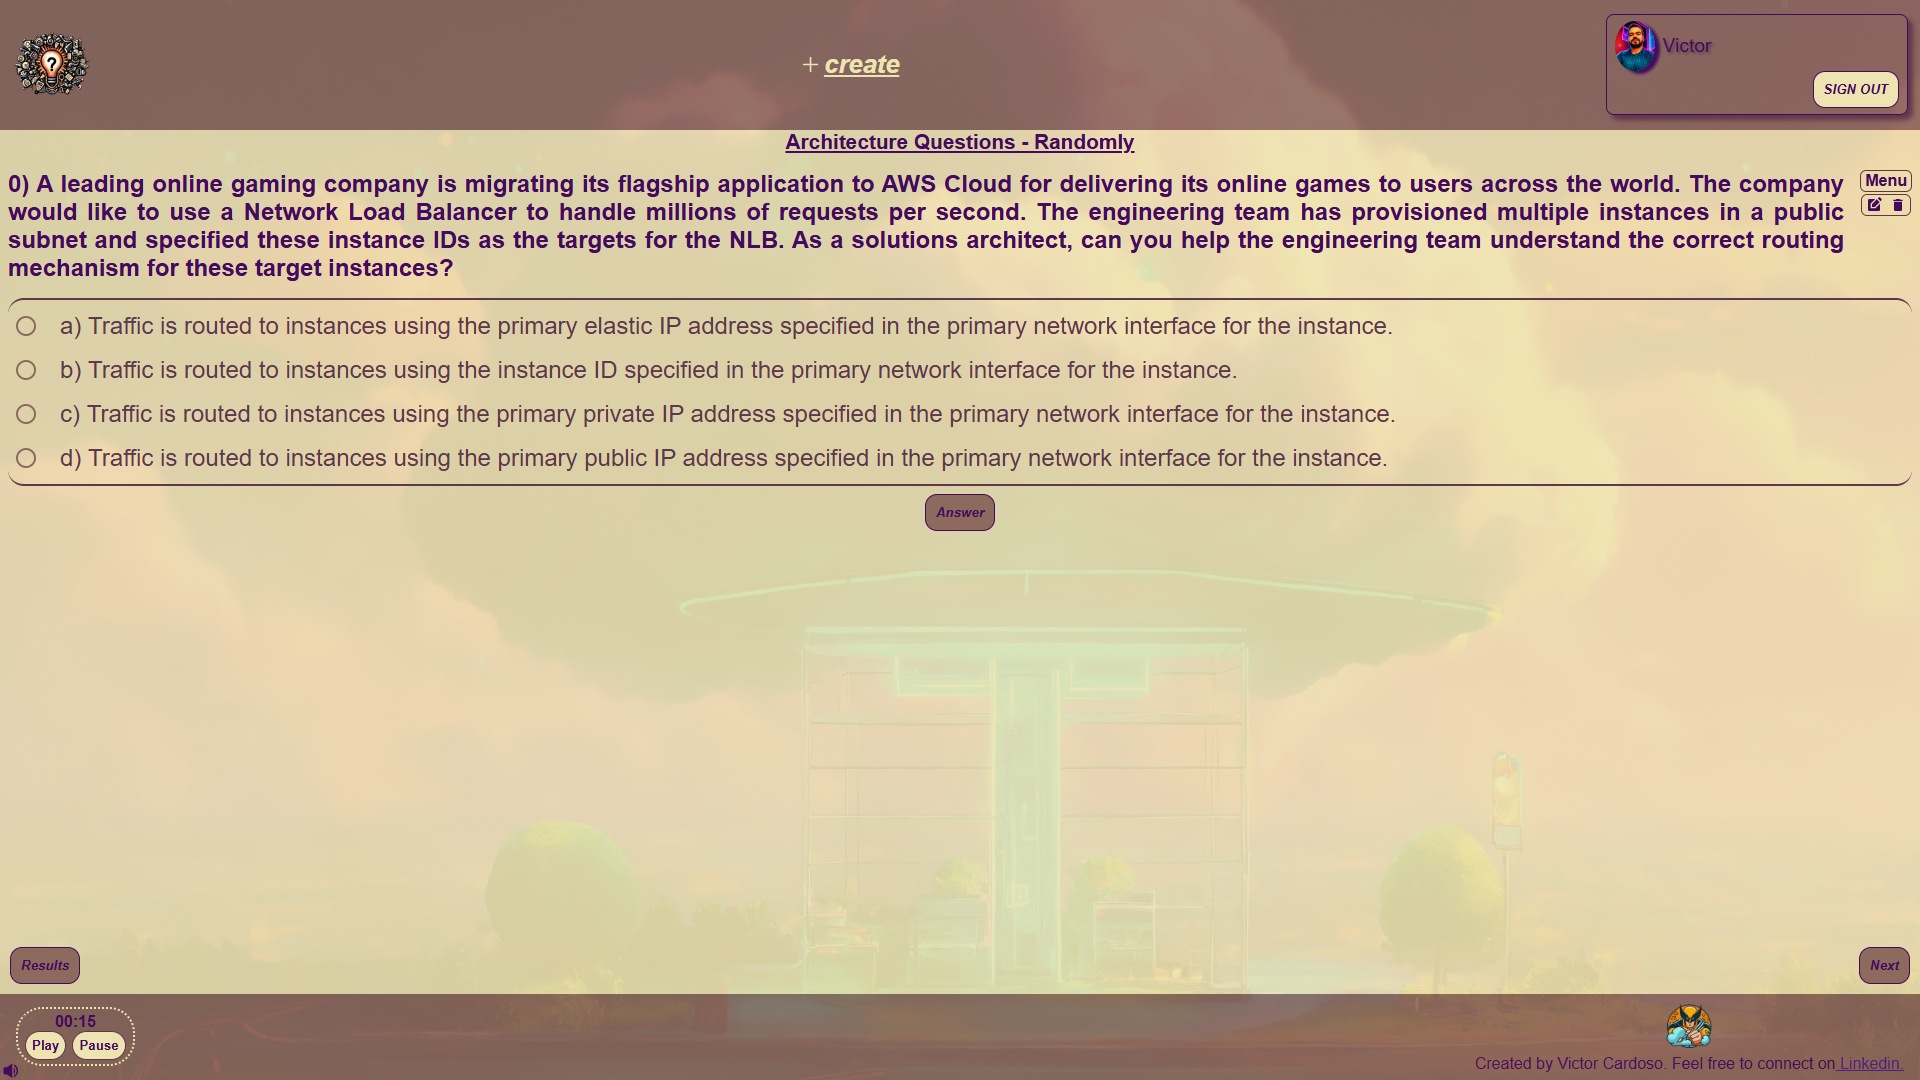
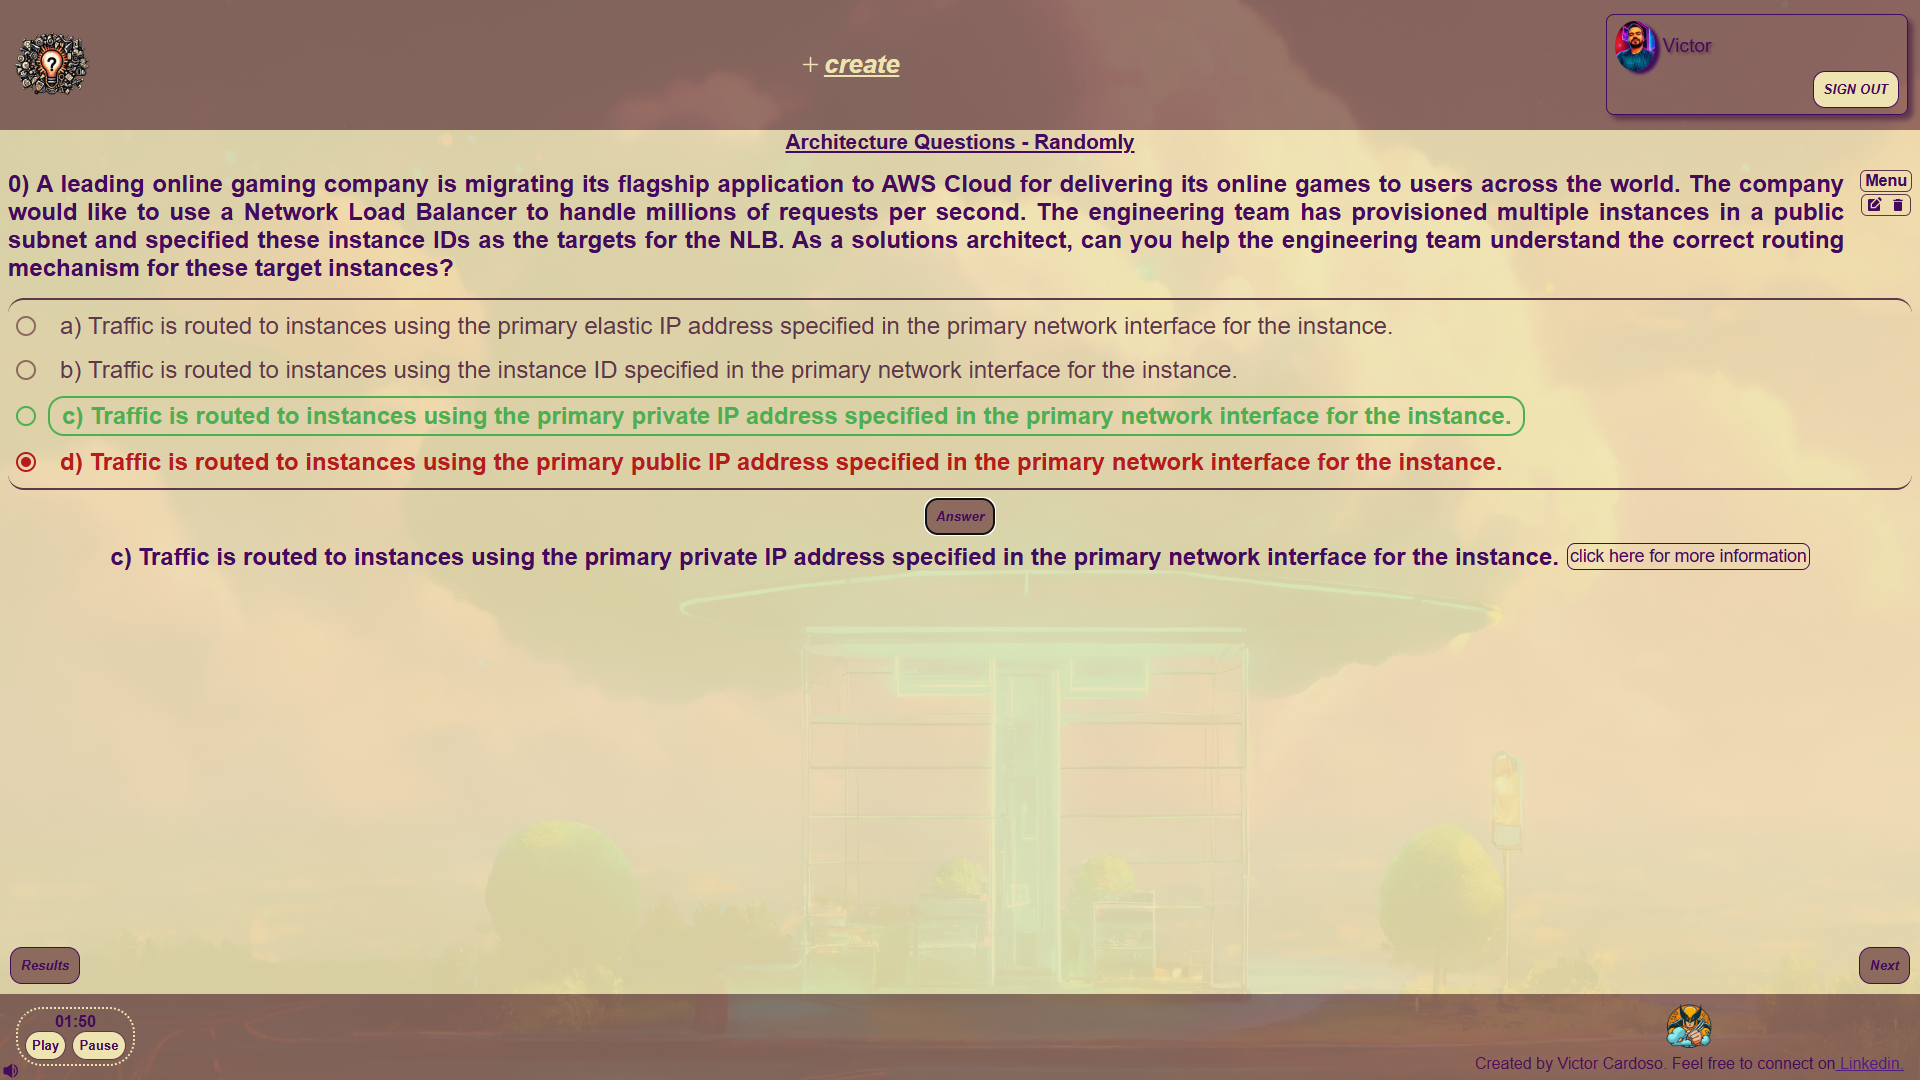
adjust ModalResults and Header components

Changed region(s): [[0.0, 0.3667, 1.0, 0.5194]]

diff --git a/src/Components/Modal/ModalResults/index.js b/src/Components/Modal/ModalResults/index.js
@@ -15,33 +15,25 @@ function ModalResults() {
     
     const [modalIsOpen, setModalIsOpen] = useState(false)
 
+    const [activeCorrect, setActiveCorrect] = useState(false)
+    const [activeIncorrect, setActiveIncorrect] = useState(false)
+
     // pegando os dados do resultado
     const { dataResults, mute } = useOutletContext()
 
     function openModal() {
         setModalIsOpen(true)
- 
-        // setTimeout para dar tempo de capturar as variáveis ao abrir a modal e, em seguida, mudar a cor de acordo com os resultados
-        setTimeout(() => {
-            const corrects = document.querySelector('#corrects')
-            const pontuations = document.querySelector('#pontuations')
-            const performances = document.querySelector('#performances')
-            const incorrects = document.querySelector('#incorrects')
 
-            corrects?.classList.add(`${styles.correct}`)
-            incorrects?.classList.add(`${styles.incorrect}`)
+        if (dataResults.numCorrectOption > dataResults.numIncorrectOption) {
+            setActiveCorrect(true)
+            setActiveIncorrect(false)
 
-            if (dataResults.numCorrectOption > dataResults.numIncorrectOption) {
-                pontuations?.classList.add(`${styles.correct}`)
-                performances?.classList.add(`${styles.correct}`)
+        } else if (dataResults.numCorrectOption < dataResults.numIncorrectOption) {
+            setActiveIncorrect(true)
+            setActiveCorrect(false)
 
-            } else if (dataResults.numCorrectOption < dataResults.numIncorrectOption) {
-                pontuations?.classList.add(`${styles.incorrect}`)
-                performances?.classList.add(`${styles.incorrect}`)
+        }
 
-            }
-
-        }, 0)
     }
 
     function closeModal() {
@@ -82,11 +74,11 @@ function ModalResults() {
                 />
 
                 <h1>✔REAL-TIME RESULT:</h1>
-                <p id='corrects' className={styles.test}>Correct questions: {dataResults.numCorrectOption}</p>
-                <p id='incorrects'>Incorrect questions: {dataResults.numIncorrectOption}</p>
+                <p id='corrects' className={styles.correct}>Correct questions: {dataResults.numCorrectOption}</p>
+                <p id='incorrects' className={styles.incorrect}>Incorrect questions: {dataResults.numIncorrectOption}</p>
                 <p id='correctsIncorrects'>All questions: {dataResults.allCorrectIncorrectResults}</p>
-                <p id='pontuations'>Pontuation: {dataResults.pontuationResults}</p>
-                <p id='performances'>Performance: {dataResults.performanceResults}%</p>
+                <p id='pontuations' className={activeCorrect ? styles.correct : activeIncorrect ? styles.incorrect : null}>Pontuation: {dataResults.pontuationResults}</p>
+                <p id='performances' className={activeCorrect ? styles.correct : activeIncorrect ? styles.incorrect : null}>Performance: {dataResults.performanceResults}%</p>
 
             </Modal>
 

diff --git a/src/Components/Header/Header.module.css b/src/Components/Header/Header.module.css
@@ -7,6 +7,7 @@
     background-color: var(--color-second);
     height: 12vh;
     padding: 0 12px;
+    z-index: 2;
 }
 
 .linkHeader {
@@ -26,16 +27,10 @@
     z-index: 1;
 }
 
-.hamburger {
-    display: none;
-    width: 2.5em;
-    height: 2.5em;
-}
-
-ul {
+.navBar {
     display: flex;
     align-items: center;
-    gap: 16px;
+    gap: 8px;
     font-size: 1.6rem;
     font-weight: bold;
     list-style: none;
@@ -43,9 +38,45 @@ ul {
     margin: 0;
 }
 
-.linksNavigation {   
+.linksNavigation {
     color: var(--color-fourth);
     text-decoration: none;
+}
+
+.navBarHamburguer {
+    display: flex;
+    flex-direction: column;
+    align-items: center;
+    justify-content: center;
+    gap: 4px;
+    position: absolute;
+    left: 35px;
+    top: -20px;
+    padding: 0;
+    margin: 0;
+}
+
+.linksNavigationHamburguer {
+    display: none;
+    font-size: 0.8rem;
+    background-color: var(--color-fourth);
+    padding: 4px 6px;
+    margin: 0;
+    border-radius: 8px;
+    transition: color 0.3s ease-in-out, background 0.3s ease-in-out, border 0.3s ease-in-out, text-shadow 0.3s ease-in-out, box-shadow 0.3s ease-in-out;
+}
+
+.linksNavigationHamburguer:hover {
+    color: var(--color-fourth);
+    background-color: var(--color-first);
+}
+
+.hamburger {
+    display: none;
+    width: 2rem;
+    height: 2rem;
+    cursor: pointer;
+    z-index: 2;
 }
 
 .containerLoginSignin {
@@ -136,7 +167,7 @@ ul {
 }
 
 @media (max-width: 1440px) {
-    ul {
+    .navBar {
         font-size: 1.5rem;
     }
 
@@ -155,7 +186,7 @@ ul {
         width: 70px;
     }
 
-    ul {
+    .navBar {
         font-size: 1.2rem;
     }
 
@@ -174,8 +205,12 @@ ul {
         width: 60px;
     }
 
-    ul {
+    .navBar {
         font-size: 1rem;
+    }
+
+    .linksNavigation {
+        display: flex;
     }
 
     .containerLoginSignin {
@@ -200,34 +235,17 @@ ul {
     .iconStart {
         width: 50px;
     }
-
-    .ulHeader {
-        display: none;      
-    }
-    
-    .ulAble {
-        display: flex;
-        flex-direction: column;
-        position: absolute;
-        left: 50px;
-        top: 0;
-        font-size: 0.8rem;
-        background-color: var(--color-fourth);
-        padding: 4px 6px;
-        border-radius: 8px;
-        transition: color 0.3s ease-in-out, background 0.3s ease-in-out, border 0.3s ease-in-out, text-shadow 0.3s ease-in-out, box-shadow 0.3s ease-in-out;
-        z-index: 1;
-    }
-
-    .ulAble:hover {
-        color: var(--color-fourth);
-        background-color: var(--color-first);
-    }
     
     .hamburger {
         display: flex;
-        padding: 8px;
-        cursor: pointer;
+    }
+
+    .linksNavigationHamburguer {
+        display: flex;
+    }
+
+    .linksNavigation {
+        display: none;
     }
 
     .containerLoginSignin {

diff --git a/src/Components/Header/index.js b/src/Components/Header/index.js
@@ -19,19 +19,11 @@ function Header() {
 
     const { setLoginValidate, setActivateNavigateDefault, nameUser, setNameUser, truncatedText, mute, activePageFormsQuestionsOptions } = useOutletContext()
 
-    const allLinks = document.querySelectorAll('.ulHeader')
+    const [activeLinksHamburguer, setActiveLinkesHamburguer] = useState(false)
 
     // habilitar ou não os links de navegação ao clicar quando o menu hamburguer está ativado na resolução até 580px
     function ableLinks() {
-        if (allLinks[0]?.classList.contains(`${styles.ulHeader}`)) {
-            allLinks[0]?.classList.remove(`${styles.ulHeader}`)
-            allLinks[0]?.classList.add(`${styles.ulAble}`)            
-
-        } else {
-            allLinks[0]?.classList.add(`${styles.ulHeader}`)
-            allLinks[0]?.classList.remove(`${styles.ulAble}`)
-
-        }
+        setActiveLinkesHamburguer(!activeLinksHamburguer)
 
     }
 
@@ -69,17 +61,21 @@ function Header() {
             {/* barra de navegação */}
             <nav className={styles.navigationBar}>
                 {!activePageFormsQuestionsOptions && 
-                    <RxHamburgerMenu 
+                    <RxHamburgerMenu
                         onClick={ableLinks} 
                         className={styles.hamburger} 
                     />
                 }
 
-                <ul className={`ulHeader ${styles.ulHeader}`}>
+                <ul className={activeLinksHamburguer ? 
+                                styles.navBarHamburguer
+                                : 
+                                styles.navBar}
+                >
                     {!activePageFormsQuestionsOptions &&
                         <Link
                             to='/page-forms-new-questions-options'
-                            className={styles.linksNavigation}
+                            className={activeLinksHamburguer ? styles.linksNavigationHamburguer: styles.linksNavigation}
                         >
                             <NavigationItem 
                                 onClick={sound}
@@ -87,8 +83,8 @@ function Header() {
                                 itemName='create' 
                             />
                         </Link> 
-                    } 
-
+                    }
+                                   
                 </ul>
 
             </nav>
